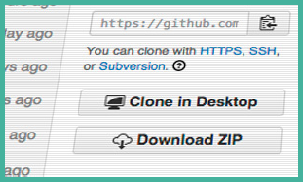
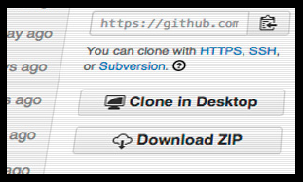
color changes

Changed region(s): [[0.0, 0.0, 1.0, 1.0]]

diff --git a/_sass/_02_settings_colors.scss b/_sass/_02_settings_colors.scss
@@ -25,7 +25,7 @@ $body-bg: 			#fdfdfd;
    https://color.adobe.com/de/Flat-Design-Colors-v2-color-theme-4341903/
 ------------------------------------------------------------------- */
 
-$ci-1: #334D5C;		// dark turquoise
+$ci-1: #5fb19b;		// dark turquoise
 $ci-2: #45B29D;		// turquoise
 $ci-3: #EFC94C;		// yellow
 $ci-4: #E27A3F;		// orange
